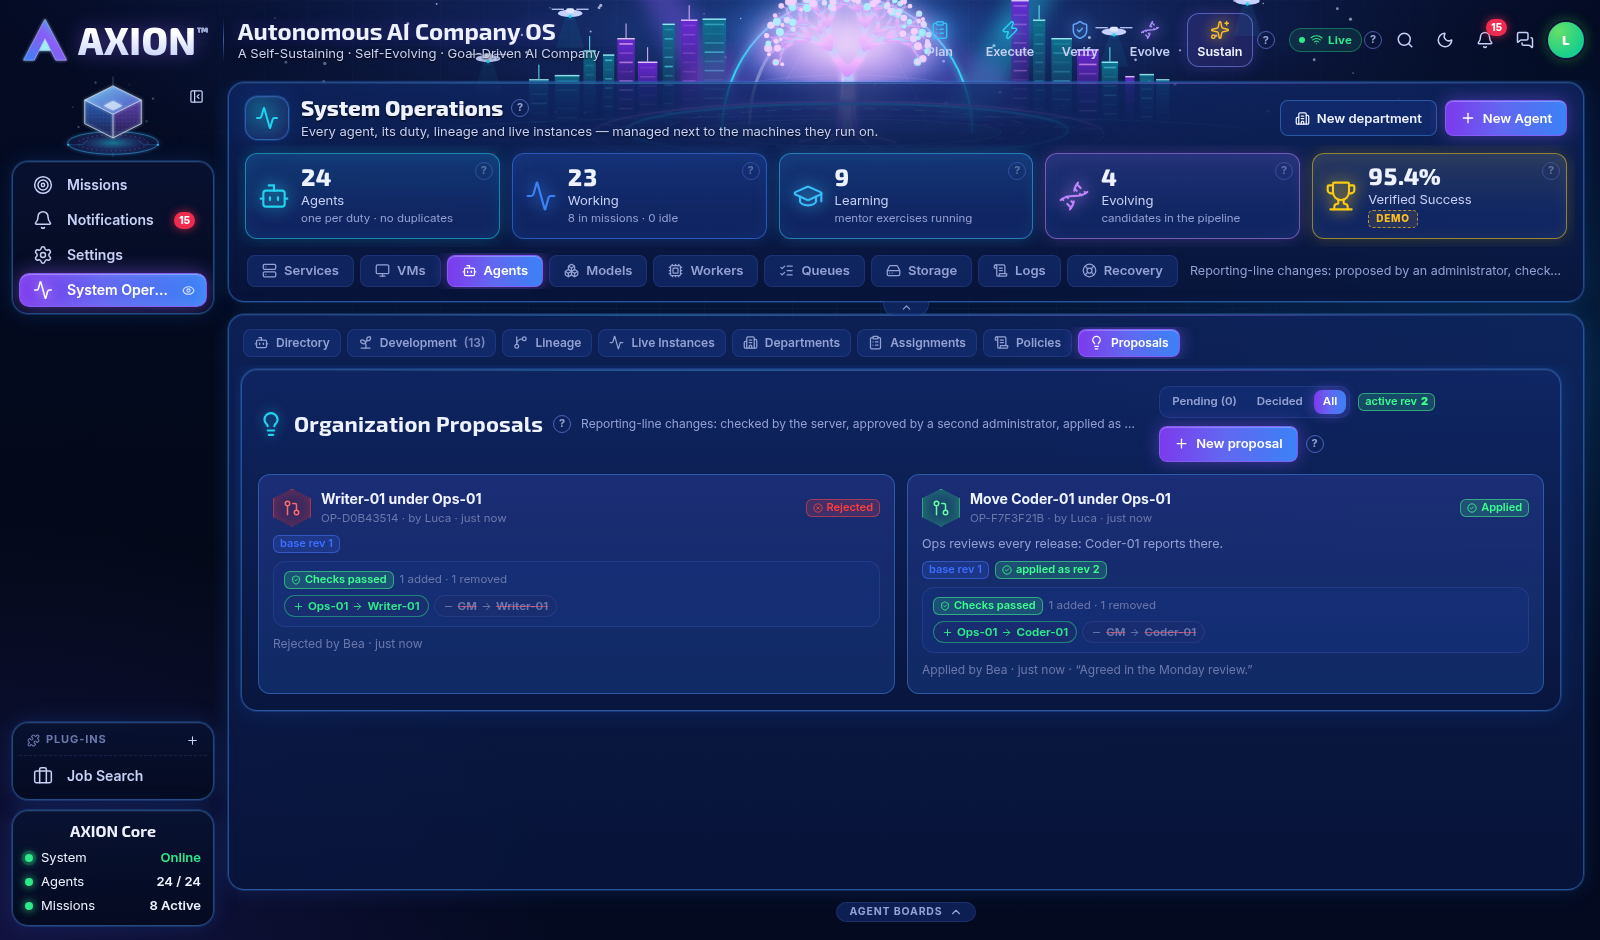
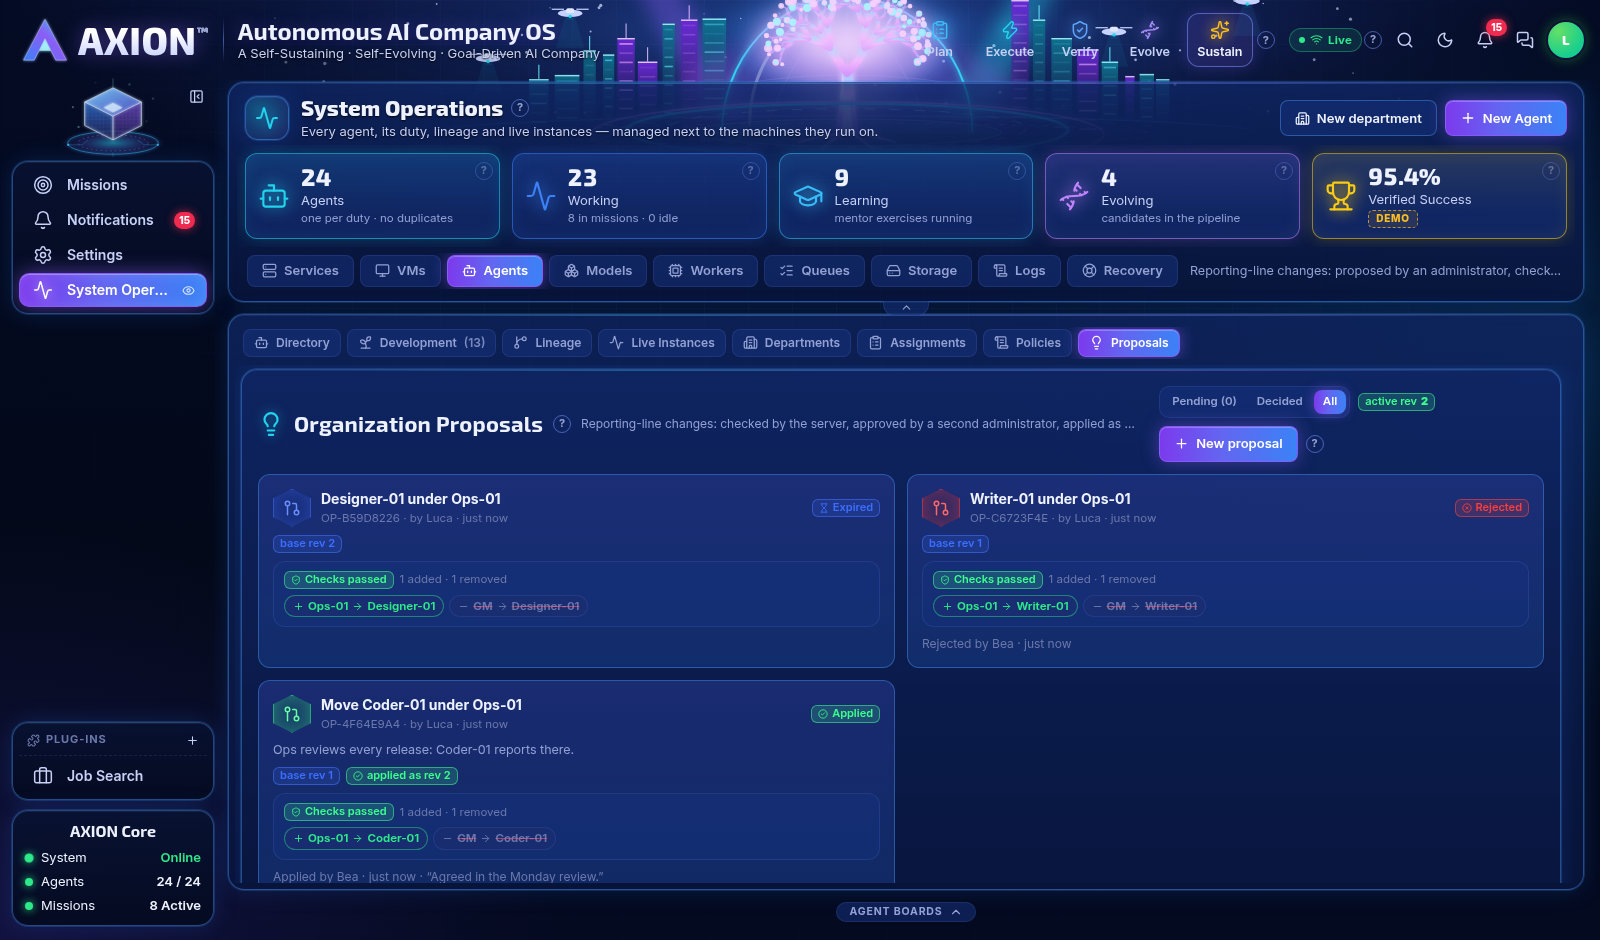
fix(c01): refused actions keep their message on the card (also after an expiry), expiry commit asserted in the DB, e2e expiry check, opt-in doc screenshot

diff --git a/web/src/features/agents/ServerProposals.tsx b/web/src/features/agents/ServerProposals.tsx
@@ -62,10 +62,9 @@ export function DryRunView({ r, max = 6 }: { r: OrgDryRun; max?: number }) {
   );
 }
 
-function ProposalCard({ p, active, meId, admin, index }: { p: OrgProposalDto; active: number; meId?: string; admin: boolean; index: number }) {
+function ProposalCard({ p, active, meId, admin, index, err, setErr }: { p: OrgProposalDto; active: number; meId?: string; admin: boolean; index: number; err?: string; setErr: (m: string | null) => void }) {
   const [note, setNote] = useState('');
   const [busy, setBusy] = useState(false);
-  const [err, setErr] = useState<string | null>(null);
   const S = STATUS[p.status];
   const pending = p.status === 'pending';
   const mine = p.createdBy === meId;
@@ -75,7 +74,7 @@ function ProposalCard({ p, active, meId, admin, index }: { p: OrgProposalDto; ac
     setBusy(true); setErr(null);
     const r = await f();
     setBusy(false);
-    if (!r.ok) { setErr(r.message); return; }
+    if (!r.ok) { setErr(r.message); toast({ tone: 'warning', title: `Proposal ${p.id}: not done`, body: r.message }); return; }
     toast({ tone: 'success', title: done });
   };
   const ageMin = (Date.now() - new Date(p.createdAt).getTime()) / 60_000;
@@ -129,8 +128,11 @@ export function ServerProposals() {
   const me = useMe();
   const admin = isAdmin(me);
   const [filter, setFilter] = useState<Filter>('pending');
+  // a card whose action the server refused keeps its message, and stays listed even if its status left the filter (e.g. expired)
+  const [errs, setErrs] = useState<Record<string, string>>({});
+  const setErr = (id: string) => (m: string | null) => setErrs((x) => { const n = { ...x }; if (m) n[id] = m; else delete n[id]; return n; });
   const all = data?.proposals ?? [];
-  const list = all.filter((p) => filter === 'all' || (filter === 'pending' ? p.status === 'pending' : p.status !== 'pending'));
+  const list = all.filter((p) => errs[p.id] || filter === 'all' || (filter === 'pending' ? p.status === 'pending' : p.status !== 'pending'));
   const nPending = all.filter((p) => p.status === 'pending').length;
   return (
     <Panel icon={Lightbulb} titleSize="lg" title="Organization Proposals" help="org.proposals.server" sub="Reporting-line changes: checked by the server, approved by a second administrator, applied as a new org revision." delay={.05} data-proposals=""
@@ -147,7 +149,7 @@ export function ServerProposals() {
         : (
           <div className="oa-prop-grid">
             <AnimatePresence>
-              {list.map((p, i) => <ProposalCard key={p.id} p={p} active={data!.activeRevision} meId={me?.id} admin={admin} index={i} />)}
+              {list.map((p, i) => <ProposalCard key={p.id} p={p} active={data!.activeRevision} meId={me?.id} admin={admin} index={i} err={errs[p.id]} setErr={setErr(p.id)} />)}
             </AnimatePresence>
           </div>
         )}

diff --git a/server/test/proposals.test.ts b/server/test/proposals.test.ts
@@ -190,6 +190,10 @@ describe('lifecycle', () => {
     const r = await decide(B, p, 'approve');
     expect(r.status).toBe(409);
     expect(r.body.code).toBe('PROPOSAL_EXPIRED');
+    // the expiry was committed by the refused decision itself (before any read)
+    expect((await rows('select status from org_proposals where id=$1', [p.id]))[0].status).toBe('expired');
+    expect(await count(`select count(*)::int n from audit_events where action='org.proposal.expire' and subject=$1`, [p.id])).toBe(1);
+    expect(await count(`select count(*)::int n from audit_events where action='org.proposal.decide' and subject=$1 and result='denied'`, [p.id])).toBe(1);
     const list = (await M.req('GET', '/organization/proposals')).body.proposals;
     expect(list.find((x: { id: string }) => x.id === p.id).status).toBe('expired');
   });

diff --git a/web/docs/improve/cycles/c01-report.md b/web/docs/improve/cycles/c01-report.md
@@ -72,7 +72,8 @@ Implementer report for `c01-brief.md`. Branch `improve-30h`, base `c5f49ff`.
   - a decided card shows who decided, when, and the note;
   - admins who are not the author get a note field plus Approve and Reject. Approve is disabled when the dry run has
     errors or the proposal is stale; the server enforces both anyway. The author gets Withdraw. Members see no buttons;
-  - server errors show inline on the card (`role="alert"`).
+  - server errors show inline on the card (`role="alert"`) and as a toast. A card that holds an error stays listed
+    even if its new status (for example expired) leaves the current filter.
 - `web/src/dialogs/defs/org-proposals.tsx`, the **New proposal** dialog (`org-proposal-new`, DL-66):
   - it starts from the active graph and shows "from org revision N";
   - each row is an agent picker, its current manager, and a new-manager picker; rows can be added and removed; title and
@@ -85,7 +86,11 @@ Implementer report for `c01-brief.md`. Branch `improve-30h`, base `c5f49ff`.
 - Help: `org.proposals.server`, `org.proposal.new`, `org.proposal.changes`, `org.proposal.dryRun`,
   `org.proposal.decide`, `org.proposal.withdraw`. Styles are added to `overview-org-agent.css` using the existing panel
   and card classes.
-- `web/scripts/api-improve.mjs`: the browser flow for threshold item 2 (A, B and C in three browsers, 28 checks).
+- `web/scripts/api-improve.mjs`: the browser flow for threshold item 2 (A, B and C in three browsers, 29 checks). It
+  writes the committed screenshot only when `DOC_SHOT` is set, so a normal run leaves the tree clean. To regenerate it:
+  `DOC_SHOT=$PWD/docs/screenshots/improve-c01-proposals-dark.png ./scripts/api-e2e.sh api-improve.mjs`. To move one
+  proposal's expiry into the past, it touches only `axion_e2e`: it reads `E2E_DATABASE_URL` from `server/.env` and
+  refuses any URL that is not `axion_e2e`.
 
 ## Decisions where the brief left a choice
 - **D1, dry run before submit:** `?dryRun=1` on POST. It stores nothing, writes no audit row and needs no key. The dialog
@@ -123,8 +128,10 @@ Implementer report for `c01-brief.md`. Branch `improve-30h`, base `c5f49ff`.
 - Mutation check: with the stale-base and self-approval guards disabled, `proposals.test.ts` gave 4 failed and 15 passed,
   which shows those tests bite. The code was then restored.
 - Browser (api mode): `cd web && npx tsc --noEmit -p . && ./scripts/api-e2e.sh api-auth-flow.mjs api-flows.mjs api-stage6.mjs api-improve.mjs`
-  gave `TSC-OK`, then `api-auth-flow 15/15`, `api-flows 23/23`, `api-stage6 94/94`, `api-improve 28/28`, with no page errors
-  in any of them, and `EXIT 0`. While the script was being written, its first runs failed only on its own locators (the help
+  gave `TSC-OK`, then `api-auth-flow 15/15`, `api-flows 23/23`, `api-stage6 94/94` and `api-improve 28/28`, with no
+  page errors in any of them, and `EXIT 0`. After the review fixes (commit 3), the server suite was re-run (248/248, with
+  the expiry test strengthened) and `api-improve.mjs` was re-run alone: **29/29**, no page errors, and 5192/5193 free
+  afterwards. The fixes touch only the api-mode card and the script, so the other three scripts were not re-run. While the script was being written, its first runs failed only on its own locators (the help
   `?` buttons share names with the action buttons, and one `<label>` was not linked to its field, which is now fixed in the
   dialog), never on a product check.
 - Demo suite: `./scripts/verify-all.sh` (dev server on 5190, not restarted) gave:
@@ -140,6 +147,9 @@ Implementer report for `c01-brief.md`. Branch `improve-30h`, base `c5f49ff`.
   - fs guard: OK;
   - `EXIT 0`.
 
+  It was re-run on the final code after commit 3, again `EXIT 0`: 46 PASS lines, 0 FAIL, 106 dialog checks with 0
+  failures, and help keys and dialog ids all defined.
+
 ## Pass threshold
 1. **Server tests: PASS.** Every case under the brief's "Tests" has a test:
    - `org-validate.test.ts`: 10 tests, covering each error and each warning, the chain limit and the added/removed lines;
@@ -151,7 +161,8 @@ Implementer report for `c01-brief.md`. Branch `improve-30h`, base `c5f49ff`.
      - the same sha pending twice is 409;
      - stale P1/P2 gives `ORG_CHANGED`;
      - a tampered sha is 409, and so is tampered stored content;
-     - an expired proposal is 409 and shows `expired`, also when expiry happens on read;
+     - an expired proposal is 409, and the refused decision itself commits `expired`, the expire audit row and a denied
+       decide row (asserted in the database before any read); it also expires on read;
      - withdraw works for the author only;
      - instances keep `manager_instance_id`, checked against a non-empty set;
      - `org_edges` UPDATE and DELETE still throw;
@@ -159,7 +170,7 @@ Implementer report for `c01-brief.md`. Branch `improve-30h`, base `c5f49ff`.
        the row counts are unchanged.
 
    The suite went from 219 to 248 tests with 0 failures, and `tsc` is clean.
-2. **Browser check: PASS** (`api-improve.mjs`, 28/28):
+2. **Browser check: PASS** (`api-improve.mjs`, 29/29):
    - A creates a proposal in Agents › Proposals and sees the server dry run in the dialog before submit (checks passed,
      `+ Ops-01 → Coder-01`, `− GM → Coder-01`; a loop shows a red `CYCLE`);
    - B (a second administrator) approves it;
@@ -169,7 +180,9 @@ Implementer report for `c01-brief.md`. Branch `improve-30h`, base `c5f49ff`.
    - C saw the proposals read-only: no New proposal, a "Read only" chip, no buttons on the card, which arrived live;
    - `PROPOSAL_CHANGED` shows the server message inline;
    - the stale P2 shows "stale: rev 2 is active" and its Approve is disabled; through the API it is `ORG_CHANGED`, and
-     `SELF_APPROVAL` through the API is 403.
+     `SELF_APPROVAL` through the API is 403;
+   - `PROPOSAL_EXPIRED`: a proposal B has on screen is expired in `axion_e2e`; B's Approve gets the server message, and
+     it stays on the card although the card left the Pending filter and now says Expired.
 3. **Demo mode unchanged: PASS.** `verify-all.sh` is green (above). The demo `Proposals` JSX is byte-for-byte the old
    function, renamed `DemoProposals`.
 4. **Nothing invented: PASS.** The api-mode cards show only the stored title, why, author, age, status, base revision,
@@ -186,7 +199,8 @@ Commit 1 (server, `67496df`):
 - `server/README.md` (API and rollback lines)
 - `shared/contracts/src/{agents,errors,events}.ts`
 
-Commit 2 (web and report):
+Commit 2 (web and report, `a8007d8`), then commit 3 (review fixes: the error stays on the card, a stronger expiry test,
+`DOC_SHOT` opt-in, the e2e expiry check):
 - `web/src/api/orgProposals.ts`, `web/src/features/agents/ServerProposals.tsx`, `web/src/dialogs/defs/org-proposals.tsx` (new)
 - `web/src/api/events.ts`, `web/src/features/agents/OrgSections.tsx`, `web/src/pages/Agents.tsx`,
   `web/src/help/pages/overview-org-agent.ts`, `web/src/theme/pages/overview-org-agent.css`
@@ -199,7 +213,7 @@ Not touched: `api-stage6.mjs`, migrations 0001–0012, the append-only triggers,
 
 ## Screenshot
 `web/docs/screenshots/improve-c01-proposals-dark.png`: the api-mode Proposals tab with the filter on All, after an
-applied proposal and a rejected stale one. A third browser's hierarchy after the live update is in
+applied proposal, a rejected stale one and an expired one. A third browser's hierarchy after the live update is in
 `/tmp/axion-api-e2e/improve-c01-hierarchy-C.png` (not committed).
 
 ## Concerns
@@ -217,5 +231,10 @@ applied proposal and a rejected stale one. A third browser's hierarchy after the
 - **The tab's other DEMO sections are unchanged.** Departments' "Assign manager" and the Assignments "Rebalance" still
   open the DEMO reorganisation dialog (DL-39) in api mode, as before. They now sit next to a real proposal flow, and a
   later cycle could route them to the new dialog.
+- **A pre-existing race, not fixed this cycle:** `POST /agents` reads the active edges *before* `createOrgRevision`
+  takes the `org-rev` lock. If an agent is created at the same moment a proposal is approved, its revision can be built
+  from the pre-approval edges plus the new agent, which silently undoes the applied proposal. The proposals path itself
+  takes the lock first. The fix is a one-liner in `agents/routes.ts` (take `org-rev:<tenant>` before reading the edges),
+  but that file is outside this brief, so it should be a backlog item.
 - Migration 0013 down drops `org_proposals`, and the proposals with it. The applied revisions survive in the append-only
   `org_revisions`/`org_edges`, whose notes name the proposal id.
